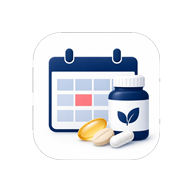
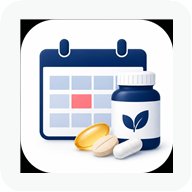
아이콘 밝은 배경으로 수정

diff --git a/public/sw.js b/public/sw.js
@@ -1,4 +1,4 @@
-const CACHE_NAME = 'hsmoa-health-food-v4';
+const CACHE_NAME = 'hsmoa-health-food-v6';
 const ASSETS = ['/', '/index.html', '/style.css', '/app.js', '/manifest.json', '/favicon.png', '/icon-192.png', '/icon-512.png'];
 
 self.addEventListener('install', (event) => {